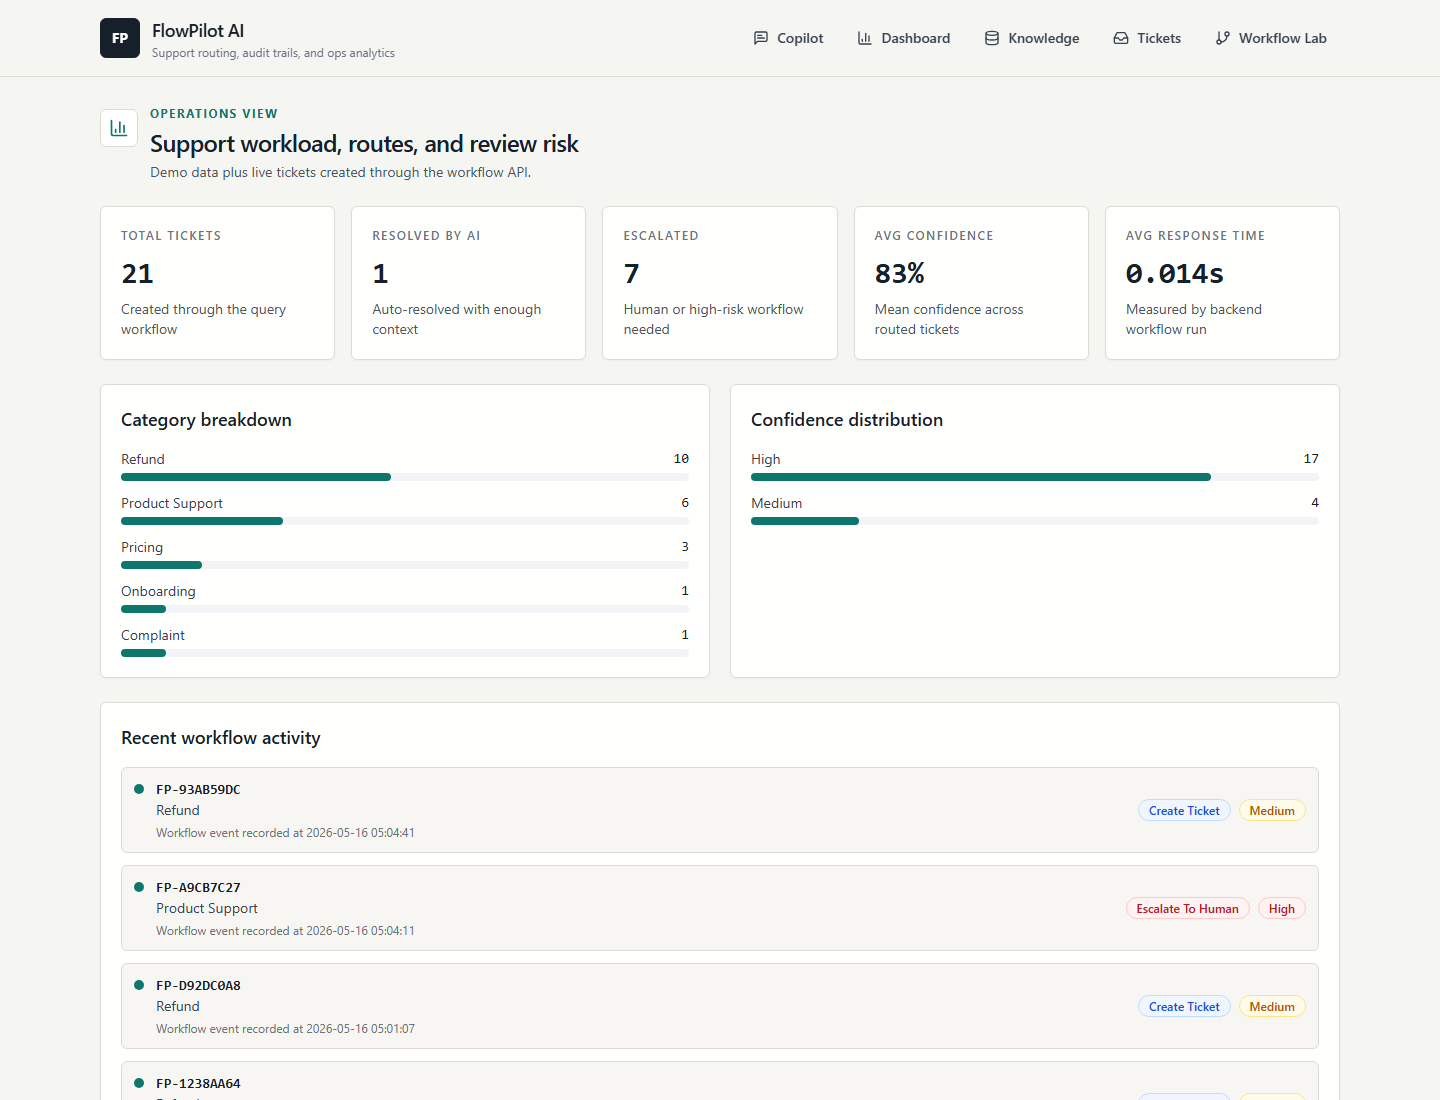
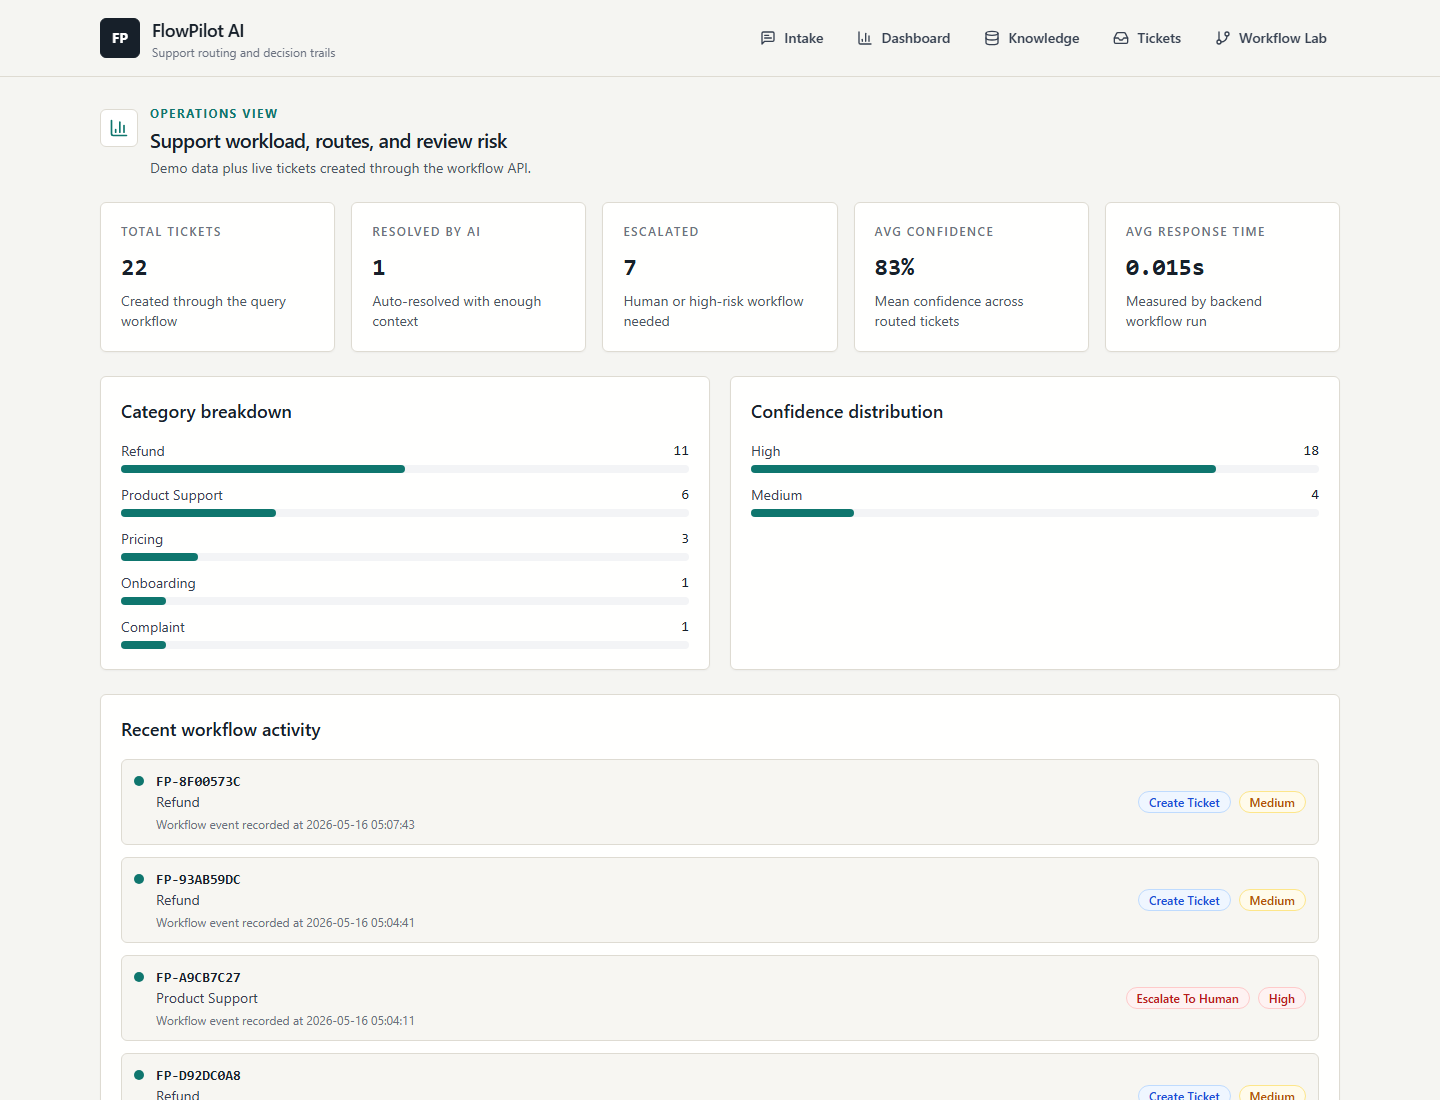
Refine UI and product voice for finalist demo

diff --git a/frontend/src/components/WorkflowLab.tsx b/frontend/src/components/WorkflowLab.tsx
@@ -106,16 +106,16 @@ export function WorkflowLab() {
         </div>
         <div>
           <p className="page-kicker">Decision replay</p>
-          <h1 className="mt-1 text-2xl font-semibold tracking-tight">See how a customer issue becomes a workflow</h1>
-          <p className="mt-1 text-sm text-gray-600">The main judge demo: intent, evidence, route, ticket, and audit trail in one view.</p>
+          <h1 className="mt-1 text-xl font-semibold tracking-tight">Explainable workflow replay</h1>
+          <p className="mt-1 text-sm text-gray-600">Intent, evidence, route, ticket handoff, and review trail in one view.</p>
         </div>
       </div>
       <section className="grid gap-5 lg:grid-cols-[0.85fr_1.15fr]">
         <div className="surface rounded-md p-6">
           <p className="page-kicker">Input</p>
-          <h2 className="mt-2 text-lg font-semibold">Customer issue</h2>
+          <h2 className="mt-2 text-base font-semibold">Customer issue</h2>
           <p className="mt-1 text-sm leading-6 text-gray-600">
-            Run the same API used by the console. FlowPilot will show how the issue is classified, grounded, routed, and stored.
+            Run the same API used by the intake console. FlowPilot shows how the case is classified, grounded, routed, and stored.
           </p>
 
           <label className="mt-5 block text-sm font-semibold text-gray-700" htmlFor="message">Message context</label>
@@ -135,7 +135,7 @@ export function WorkflowLab() {
           <div className="mt-4 flex flex-wrap gap-3">
             <button type="button" onClick={runReplay} disabled={loading || !message.trim()} className="focus-ring inline-flex items-center gap-2 rounded-md bg-ink px-4 py-2.5 text-sm font-semibold text-white transition hover:bg-accent disabled:cursor-not-allowed disabled:opacity-60">
               <Play className="h-4 w-4" aria-hidden="true" />
-              {loading ? "Running replay" : "Run workflow replay"}
+              {loading ? "Running replay" : "Run replay"}
             </button>
             <button
               type="button"
@@ -144,7 +144,7 @@ export function WorkflowLab() {
               className="focus-ring inline-flex items-center gap-2 rounded-md border border-line bg-white px-4 py-2.5 text-sm font-semibold text-gray-700 transition hover:border-accent hover:text-accent disabled:cursor-not-allowed disabled:opacity-60"
             >
               <RotateCcw className="h-4 w-4" aria-hidden="true" />
-              Replay Workflow
+              Replay timeline
             </button>
           </div>
           {error ? <p className="mt-4 rounded-md border border-red-200 bg-red-50 p-3 text-sm text-red-700">{error}</p> : null}
@@ -152,8 +152,8 @@ export function WorkflowLab() {
         <div className="surface rounded-md p-6">
           <div className="flex flex-col gap-3 sm:flex-row sm:items-start sm:justify-between">
             <div>
-              <h2 className="text-lg font-semibold">Decision Timeline</h2>
-              <p className="mt-1 text-sm text-gray-600">A visual audit trail from customer issue to routed workflow.</p>
+              <h2 className="text-base font-semibold">Workflow replay</h2>
+              <p className="mt-1 text-sm text-gray-600">A visual audit trail from customer issue to routed case.</p>
             </div>
             <button
               type="button"
@@ -162,7 +162,7 @@ export function WorkflowLab() {
               className="focus-ring inline-flex items-center justify-center gap-2 rounded-md border border-line bg-white px-3 py-2 text-xs font-semibold text-gray-700 transition hover:border-accent hover:text-accent disabled:cursor-not-allowed disabled:opacity-50"
             >
               <Clipboard className="h-4 w-4" aria-hidden="true" />
-              {copied ? "Copied" : "Copy Decision Summary"}
+              {copied ? "Copied" : "Copy summary"}
             </button>
           </div>
 
@@ -177,7 +177,7 @@ export function WorkflowLab() {
                   </div>
                   <StatusBadge value={result.workflow.action} />
                 </div>
-                <div className="mt-4 grid gap-3 sm:grid-cols-2 xl:grid-cols-3">
+                <div className="mt-4 grid gap-2 sm:grid-cols-2 xl:grid-cols-3">
                   <SummaryMetric label="Intent" value={result.intent} />
                   <SummaryMetric label="Confidence" value={`${Math.round(result.confidence * 100)}%`} />
                   <SummaryMetric label="Priority" value={result.workflow.priority} />
@@ -196,21 +196,21 @@ export function WorkflowLab() {
                 <p className="text-sm leading-6 text-gray-700">{result.response}</p>
                 <p className="mt-3 text-xs text-gray-500">{result.workflow.reason}</p>
               </div>
-              <div className="relative space-y-3 border-l border-line pl-4">
+              <div className="relative space-y-2 border-l border-line pl-4">
                 {result.decision_timeline.map((item) => (
-                  <article key={item.step} className={`relative rounded-md border bg-white p-4 transition ${activeStep >= item.step ? "border-accent/50" : "border-line"} hover:border-accent/60`}>
-                    <span className={`absolute -left-[23px] top-5 flex h-4 w-4 rounded-full border-2 border-white ${activeStep >= item.step ? "bg-accent" : "bg-gray-300"}`} />
+                  <article key={item.step} className={`relative rounded-md border bg-white p-3 transition ${activeStep >= item.step ? "border-accent/50 bg-white" : "border-line"} hover:border-accent/60`}>
+                    <span className={`absolute -left-[23px] top-5 flex h-4 w-4 rounded-full border-2 border-white transition ${activeStep >= item.step ? "bg-accent" : "bg-gray-300"}`} />
                     <div className="flex gap-3">
-                      <div className={`flex h-8 w-8 shrink-0 items-center justify-center rounded-full ${activeStep >= item.step ? "bg-emerald-50 text-accent" : "bg-gray-100 text-gray-400"}`}>
-                        <CheckCircle2 className="h-4 w-4" aria-hidden="true" />
+                      <div className={`flex h-7 w-7 shrink-0 items-center justify-center rounded-full transition ${activeStep >= item.step ? "bg-emerald-50 text-accent" : "bg-gray-100 text-gray-400"}`}>
+                        <CheckCircle2 className="h-3.5 w-3.5" aria-hidden="true" />
                       </div>
                       <div className="min-w-0 flex-1">
                         <div className="flex flex-wrap items-center gap-2">
-                          <p className="font-semibold text-gray-900">{item.step}. {item.title}</p>
+                          <p className="text-sm font-semibold text-gray-900">{item.step}. {item.title}</p>
                           <StatusBadge value={item.status} />
                         </div>
                         <p className="mt-1 text-sm leading-6 text-gray-600">{item.description}</p>
-                        <div className="mt-3 grid gap-2 sm:grid-cols-2">
+                        <div className="mt-2 grid gap-2 sm:grid-cols-2">
                           {Object.entries(item.metadata).map(([key, value]) => (
                             <div key={key} className="rounded-md border border-line bg-panel px-3 py-2">
                               <p className="text-[11px] uppercase tracking-wide text-gray-500">{key.replaceAll("_", " ")}</p>
@@ -227,7 +227,7 @@ export function WorkflowLab() {
                 ))}
               </div>
               <div>
-                <p className="text-sm font-semibold text-gray-700">Retrieved source cards</p>
+                <p className="text-sm font-semibold text-gray-700">Source-backed context</p>
                 <div className="mt-2 grid gap-3">
                   {result.sources.map((source) => (
                     <article key={source.id} className="rounded-md border border-line bg-panel p-3 transition hover:bg-white">
@@ -241,7 +241,7 @@ export function WorkflowLab() {
             </div>
           ) : (
             <p className="mt-4 rounded-md border border-dashed border-line bg-panel p-5 text-sm leading-6 text-gray-600">
-              Run a workflow replay to see the route, evidence, confidence threshold, ticket record, and dashboard update path.
+              Run a replay to see route selection, evidence, confidence threshold, ticket record, and dashboard update path.
             </p>
           )}
         </div>
@@ -254,7 +254,7 @@ function SummaryMetric({ label, value }: { label: string; value: string }) {
   return (
     <div className="rounded-md border border-line bg-white px-3 py-2">
       <p className="text-[11px] font-semibold uppercase tracking-wide text-gray-500">{label}</p>
-      <p className="mt-1 truncate text-sm font-semibold capitalize text-gray-900">{value}</p>
+      <p className="mt-1 truncate text-sm font-medium capitalize text-gray-900">{value}</p>
     </div>
   );
 }

diff --git a/frontend/src/components/CopilotConsole.tsx b/frontend/src/components/CopilotConsole.tsx
@@ -36,10 +36,10 @@ export function CopilotConsole() {
       <div className="surface rounded-md p-6">
         <div className="flex items-start justify-between gap-4">
           <div>
-            <p className="page-kicker">Workflow intake</p>
-            <h1 className="mt-2 text-3xl font-semibold tracking-tight text-ink">Convert a customer issue into a routed case</h1>
+            <p className="page-kicker">Case intake</p>
+            <h1 className="mt-2 text-2xl font-semibold tracking-tight text-ink">Route a customer issue to the right queue</h1>
             <p className="mt-3 max-w-2xl text-sm leading-6 text-gray-600">
-              FlowPilot reads the issue, checks business context, recommends a route, creates a ticket, and leaves a decision trail the team can review.
+              FlowPilot checks the saved policy context, recommends a route, creates a ticket, and leaves a decision trail for review.
             </p>
           </div>
         </div>
@@ -78,8 +78,8 @@ export function CopilotConsole() {
       </div>
 
       <div className="surface rounded-md p-6">
-        <h2 className="text-lg font-semibold">Decision output</h2>
-        <p className="mt-1 text-sm text-gray-600">The same response object powers tickets, replay, and dashboard analytics.</p>
+        <h2 className="text-base font-semibold">Routing result</h2>
+        <p className="mt-1 text-sm text-gray-600">Intent, confidence, owner, and source-backed response from the workflow API.</p>
         {result ? (
           <div className="mt-4 space-y-4">
             <WorkflowSteps />
@@ -116,7 +116,7 @@ export function CopilotConsole() {
           </div>
         ) : (
           <div className="mt-4 rounded-md border border-dashed border-line bg-panel p-5 text-sm leading-6 text-gray-600">
-            Submit a customer issue to see intent, retrieved policy context, route, ticket creation, and source citations.
+            Submit a customer issue to see intent, policy context, route, ticket handoff, and source citations.
           </div>
         )}
       </div>

diff --git a/frontend/src/app/dashboard/page.tsx b/frontend/src/app/dashboard/page.tsx
@@ -18,7 +18,7 @@ export default async function DashboardPage() {
         </div>
         <div>
           <p className="page-kicker">Operations view</p>
-          <h1 className="mt-1 text-2xl font-semibold tracking-tight">Support workload, routes, and review risk</h1>
+          <h1 className="mt-1 text-xl font-semibold tracking-tight">Support workload, routes, and review risk</h1>
           <p className="mt-1 text-sm text-gray-600">Demo data plus live tickets created through the workflow API.</p>
         </div>
       </div>
@@ -54,7 +54,7 @@ export default async function DashboardPage() {
                 <StatusBadge value={item.priority} />
               </div>
             </div>
-          )) : <p className="text-sm text-gray-600">No tickets yet. Run a workflow from the Copilot page to populate this feed.</p>}
+          )) : <p className="text-sm text-gray-600">No tickets yet. Run a case from the intake page to populate this feed.</p>}
         </div>
       </Panel>
     </div>

diff --git a/frontend/src/components/AppShell.tsx b/frontend/src/components/AppShell.tsx
@@ -2,7 +2,7 @@ import { BarChart3, Database, GitBranch, Inbox, MessageSquareText } from "lucide
 import Link from "next/link";
 
 const navItems = [
-  { href: "/", label: "Copilot", icon: MessageSquareText },
+  { href: "/", label: "Intake", icon: MessageSquareText },
   { href: "/dashboard", label: "Dashboard", icon: BarChart3 },
   { href: "/knowledge-base", label: "Knowledge", icon: Database },
   { href: "/tickets", label: "Tickets", icon: Inbox },
@@ -20,7 +20,7 @@ export function AppShell({ children }: Readonly<{ children: React.ReactNode }>) 
             </div>
             <div>
               <p className="text-lg font-semibold tracking-tight">FlowPilot AI</p>
-              <p className="text-xs text-gray-500">Support routing, audit trails, and ops analytics</p>
+              <p className="text-xs text-gray-500">Support routing and decision trails</p>
             </div>
           </Link>
           <nav className="flex flex-wrap gap-2">

diff --git a/frontend/src/app/knowledge-base/page.tsx b/frontend/src/app/knowledge-base/page.tsx
@@ -13,7 +13,7 @@ export default async function KnowledgeBasePage() {
         </div>
         <div>
           <p className="page-kicker">Business context</p>
-          <h1 className="mt-1 text-2xl font-semibold tracking-tight">Policies used for retrieval and citations</h1>
+          <h1 className="mt-1 text-xl font-semibold tracking-tight">Policies used for retrieval and citations</h1>
           <p className="mt-1 text-sm text-gray-600">Seeded support rules and uploaded notes used to ground workflow decisions.</p>
         </div>
       </div>

diff --git a/frontend/src/app/tickets/page.tsx b/frontend/src/app/tickets/page.tsx
@@ -13,7 +13,7 @@ export default async function TicketsPage() {
         </div>
         <div>
           <p className="page-kicker">Routed cases</p>
-          <h1 className="mt-1 text-2xl font-semibold tracking-tight">Ticket history and owner handoff</h1>
+          <h1 className="mt-1 text-xl font-semibold tracking-tight">Ticket history and owner handoff</h1>
           <p className="mt-1 text-sm text-gray-600">Each workflow run creates a ticket record with intent, route, owner, and confidence.</p>
         </div>
       </div>

diff --git a/frontend/src/components/MetricCard.tsx b/frontend/src/components/MetricCard.tsx
@@ -8,7 +8,7 @@ export function MetricCard({ label, value, detail }: MetricCardProps) {
   return (
     <section className="surface rounded-md p-5 transition hover:border-gray-300">
       <p className="text-xs font-semibold uppercase tracking-[0.12em] text-gray-500">{label}</p>
-      <p className="mt-3 font-mono text-3xl font-semibold text-ink">{value}</p>
+      <p className="mt-3 font-mono text-2xl font-semibold text-ink">{value}</p>
       <p className="mt-2 text-sm leading-5 text-gray-600">{detail}</p>
     </section>
   );

diff --git a/frontend/src/components/FlowDiagram.tsx b/frontend/src/components/FlowDiagram.tsx
@@ -8,7 +8,7 @@ export function FlowDiagram() {
       <div className="mb-4 flex items-center justify-between gap-3">
         <div>
           <p className="page-kicker">Pipeline</p>
-          <h2 className="mt-1 text-lg font-semibold">How one message becomes an operations record</h2>
+          <h2 className="mt-1 text-base font-semibold">How one message becomes an operations record</h2>
         </div>
       </div>
       <div className="flex min-w-[860px] items-center gap-3">

diff --git a/README.md b/README.md
@@ -1,6 +1,6 @@
 # FlowPilot AI
 
-Customer issue routing, source-grounded decisions, ticket handoff, and operations analytics for support teams.
+Customer issue routing and escalation with an explainable AI workflow replay.
 
 [![Next.js](https://img.shields.io/badge/Next.js-15-black?style=for-the-badge&logo=nextdotjs)](https://nextjs.org/)
 [![FastAPI](https://img.shields.io/badge/FastAPI-0.115-009688?style=for-the-badge&logo=fastapi)](https://fastapi.tiangolo.com/)
@@ -13,11 +13,11 @@ Track: Open Innovation
 Hackathon: FlowZint AI Hackathon 2026  
 Repository: https://github.com/tauqxxr7/flowpilot-ai
 
-FlowPilot AI converts customer issues into explainable business workflows. Instead of only generating a response, it retrieves business context, classifies intent, routes the case, creates a ticket, and shows the decision trail.
+FlowPilot AI routes customer issues through an explainable support workflow, from intent detection and source lookup to ticket creation, escalation, and dashboard review.
 
 ![FlowPilot AI workflow replay](assets/screenshots/workflow-lab.png)
 
-Most business bots stop at a reply. FlowPilot keeps going: it checks the right business context, chooses the next workflow action, records the ticket, and updates the operations dashboard. The demo is built around support, sales, onboarding, complaints, escalation handling, and review queues.
+Most business bots stop at a reply. FlowPilot keeps going: it checks business context, chooses the next route, records the ticket, and updates the operations dashboard. The demo is built around support, sales, onboarding, complaints, escalation review, and handoff queues.
 
 ## Problem Statement
 
@@ -38,21 +38,21 @@ Most chatbot demos are built around one text box and one generated response. Rea
 
 FlowPilot AI treats the customer message as the beginning of an operational workflow, not the end of a chat exchange.
 
-The standout feature is Live Workflow Replay: every query produces a visible decision timeline from customer message to retrieved sources, confidence scoring, route selection, ticket creation, and dashboard update.
+The standout feature is Workflow Replay: every query produces a visible decision trail from customer message to retrieved sources, confidence scoring, route selection, ticket creation, and dashboard update.
 
 ## What FlowPilot AI Does
 
-FlowPilot receives a customer issue, classifies the intent, retrieves relevant business knowledge, prepares a grounded response, decides the next workflow action, stores the ticket, and updates operational analytics.
+FlowPilot receives a customer issue, classifies the intent, retrieves relevant business knowledge, prepares a source-backed response, decides the next route, stores the ticket, and updates operational analytics.
 
 The MVP includes seeded FlowZint-style operating knowledge for pricing, refunds, onboarding, product support, complaints, and sales inquiries. Gemini can be used when `GEMINI_API_KEY` is configured, and the local fallback path keeps the demo stable when an API key is not available.
 
 ## Core Features
 
-- Live Workflow Replay: a step-by-step decision timeline showing how a customer issue becomes a routed business workflow
+- Workflow Replay: a step-by-step decision trail showing how a customer issue becomes a routed support case
 - Knowledge base with seeded FlowZint-style policies and admin upload endpoint
 - Customer query intake for support and sales issues
 - Intent detection for refund, pricing, product support, onboarding, complaint, escalation, and sales inquiry patterns
-- Retrieval-grounded response engine with cited snippets
+- Source-backed response engine with cited snippets
 - Workflow router with actions: auto-resolve, create ticket, escalate to human, send follow-up, mark high-risk customer
 - Confidence score and owner assignment for each workflow decision
 - SQLite ticket and workflow log persistence
@@ -68,10 +68,10 @@ The backend owns the workflow pipeline. The frontend is an operations console th
 
 ## AI Workflow Pipeline
 
-1. Customer issue arrives through the Copilot console.
+1. Customer issue arrives through the intake console.
 2. Backend detects intent from the message.
 3. Retrieval searches indexed business knowledge.
-4. AI decision engine prepares a grounded response using retrieved context.
+4. Decision engine prepares a source-backed response using retrieved context.
 5. Workflow router chooses the operational next step.
 6. Ticket and workflow log are stored.
 7. Dashboard analytics update from persisted records.
@@ -195,10 +195,10 @@ Set `GEMINI_API_KEY` in `backend/.env`. The demo still works without it using th
 
 Target duration: 2 minutes.
 
-1. Open `/dashboard` and frame the project: FlowPilot AI is an operations workflow platform, not a chatbot.
+1. Open `/dashboard` and frame the project: FlowPilot AI is a support workflow router, not a chatbot.
 2. Open `/knowledge-base` and show seeded company context. Optionally upload a small `.txt` policy note.
 3. Open `/workflow-lab` and run: `We were charged twice and need a refund before renewal.`
-4. Zoom into the Live Workflow Replay: customer query received, intent detected, sources retrieved, AI decision generated, confidence scored, route selected, ticket created, dashboard updated.
+4. Zoom into Workflow Replay: customer query received, intent detected, sources retrieved, confidence scored, route selected, ticket created, dashboard updated.
 5. Run the escalation prompt: `Our dashboard automation failed three times and the customer is threatening to escalate.`
 6. Show that risk language routes the workflow to a human owner instead of auto-resolving.
 7. Open `/tickets` to show persisted workflow history.
